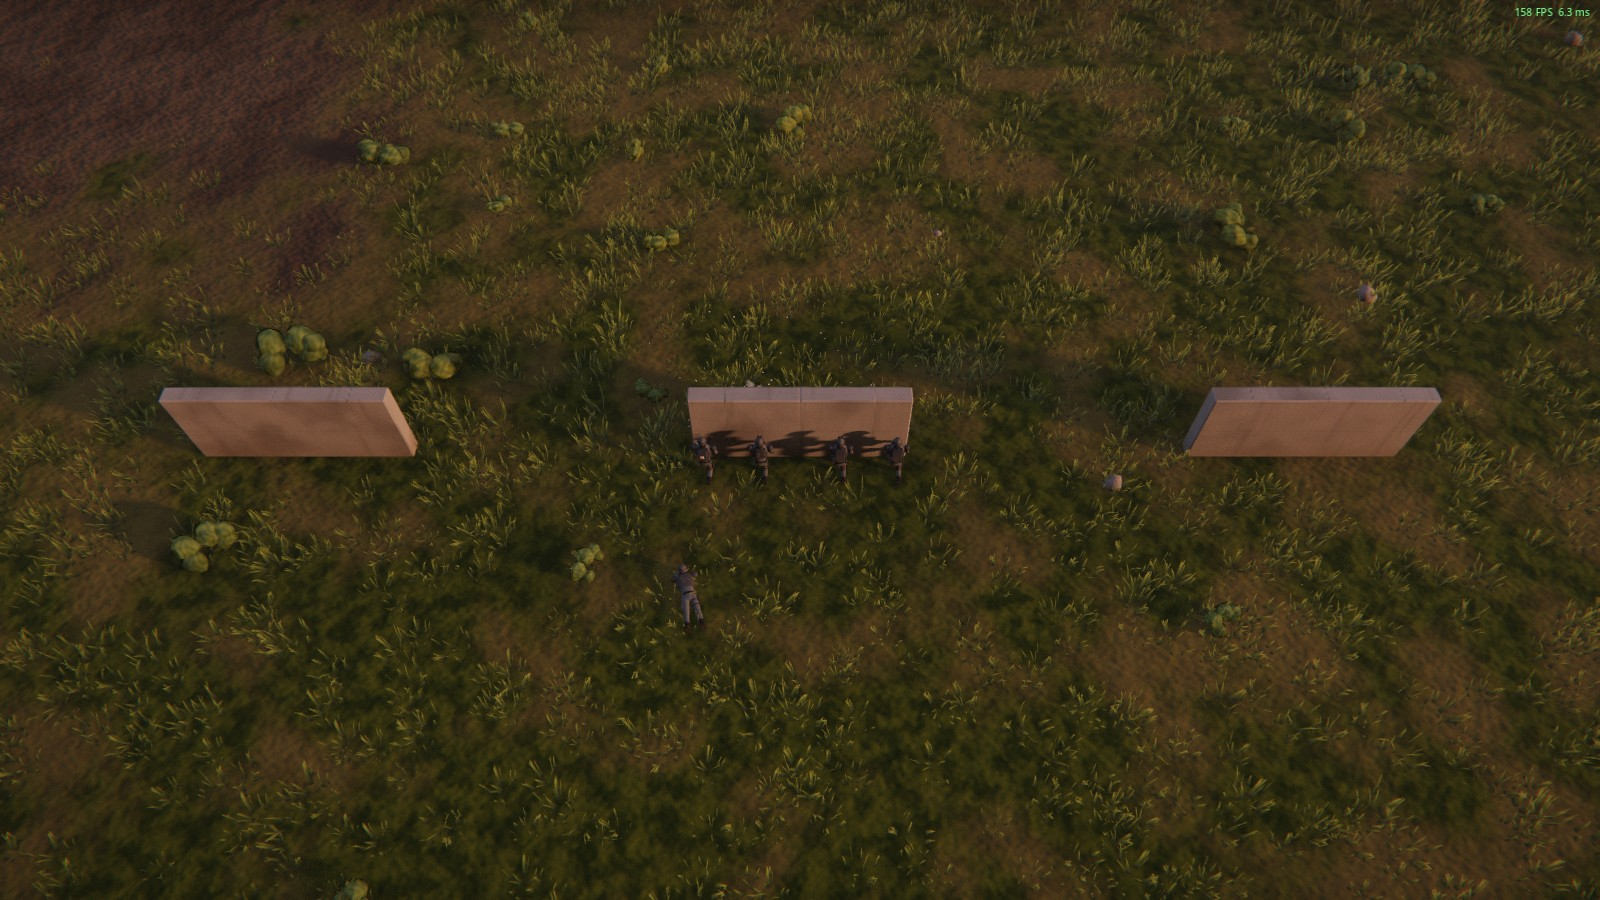
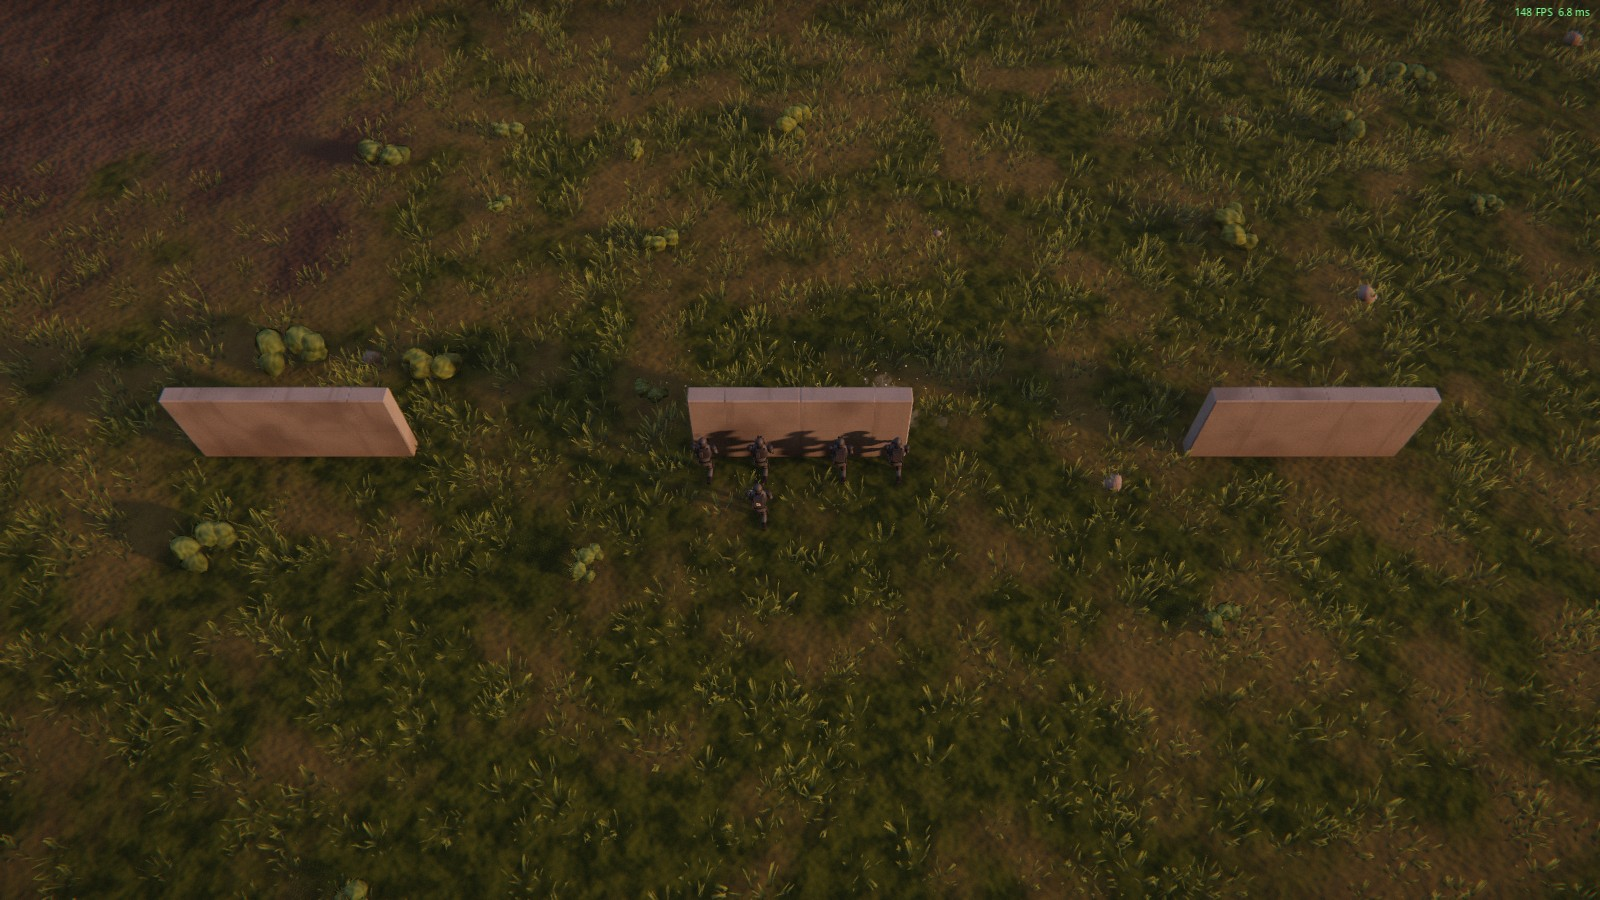
Stack overflow soldiers behind occupied wall cover
Add a second shelter row behind tall barriers, prefer available front-row positions, and reduce the rear row's effective cover rating. Cover selection and previews share the anchors. Add placement and live squad regressions and refresh the rendered comparison.

diff --git a/docs/FEATURES.md b/docs/FEATURES.md
@@ -392,7 +392,10 @@ catalogue entry in `MissionList.LIST`, a setup function and an autopilot functio
   standing behind a chest-high wall or on a trench's fire step (to 1.55 m), and round the ends of anything
   taller, leaning out. His weapon rests on the top; when he ducks his head really is below it. Formation
   slots, the move preview and each man's own choice of cover all use the same positions, so a squad told to
-  hold by a wall lines it.
+  hold by a wall lines it. Tall barriers also offer a second row 1.5 metres behind the first:
+  overflow soldiers shelter there when the front row is occupied. Physical wall blocking still applies,
+  but their effective cover rating is one tier lower (less shelter from near misses), and they
+  cannot lean around an edge from that row. The wall itself retains its normal bullet resistance.
 - **What it's made of matters.** Hedges, tents and single crates are *soft*: they hide you, but rounds go
   through (a burst into a hedge finds whoever is behind it). Cars, house walls and stacked crates are *medium*:
   they stop a rifle, not a machine gun. Stone, brick, concrete, sandbags, earth and wrecks are *hard*: only a

diff --git a/changelog/unreleased/squad-cohesion.md b/changelog/unreleased/squad-cohesion.md
@@ -9,9 +9,10 @@ caption = "Before: one squad spreads across all three walls while seeking cover.
 
 [[screenshots]]
 file = "after.jpg"
-caption = "After: four soldiers take cover on the near side of the middle wall; the fifth stays close behind. Same scenario, seed, time and camera as before."
+caption = "After: four soldiers take cover against the middle wall; the fifth stacks in a second row 1.5 metres behind them, with reduced protection. Same scenario, seed, time and camera as before."
 +++
 
 - Move and defend orders keep soldiers in a compact circle instead of a long line.
 - Soldiers favor cover beside their squad instead of spreading out across walls.
+- When a tall wall's front row is full, soldiers stack a pace behind it instead of lying farther out in the open. The rear row still benefits from the wall blocking fire, but lacks the close-cover protection of hugging it.
 - Travelling squads follow their leader through gaps, and the leader slows for stragglers.
